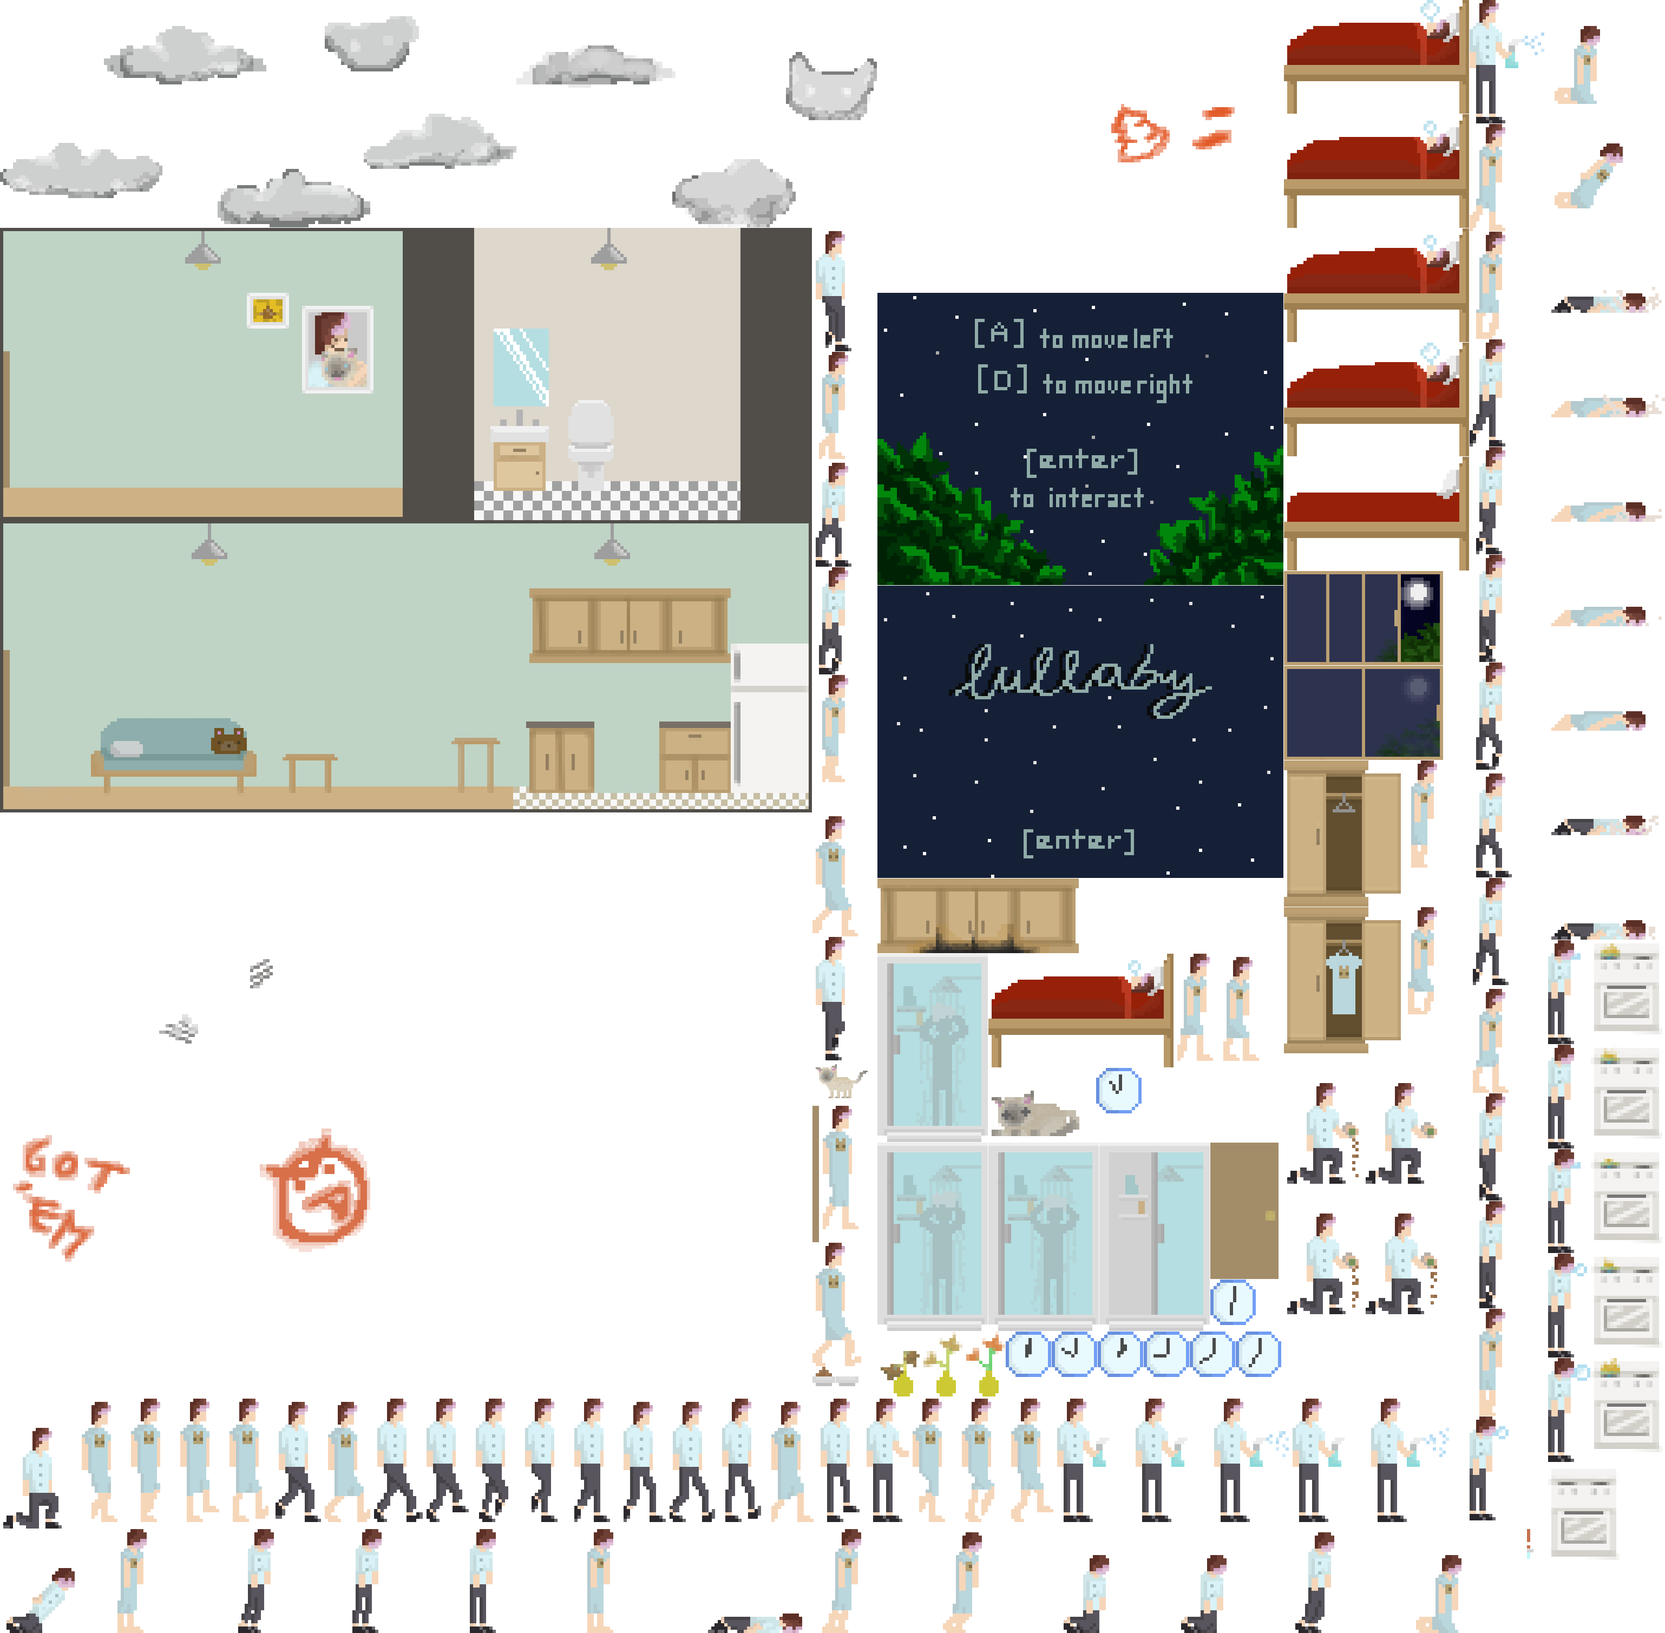
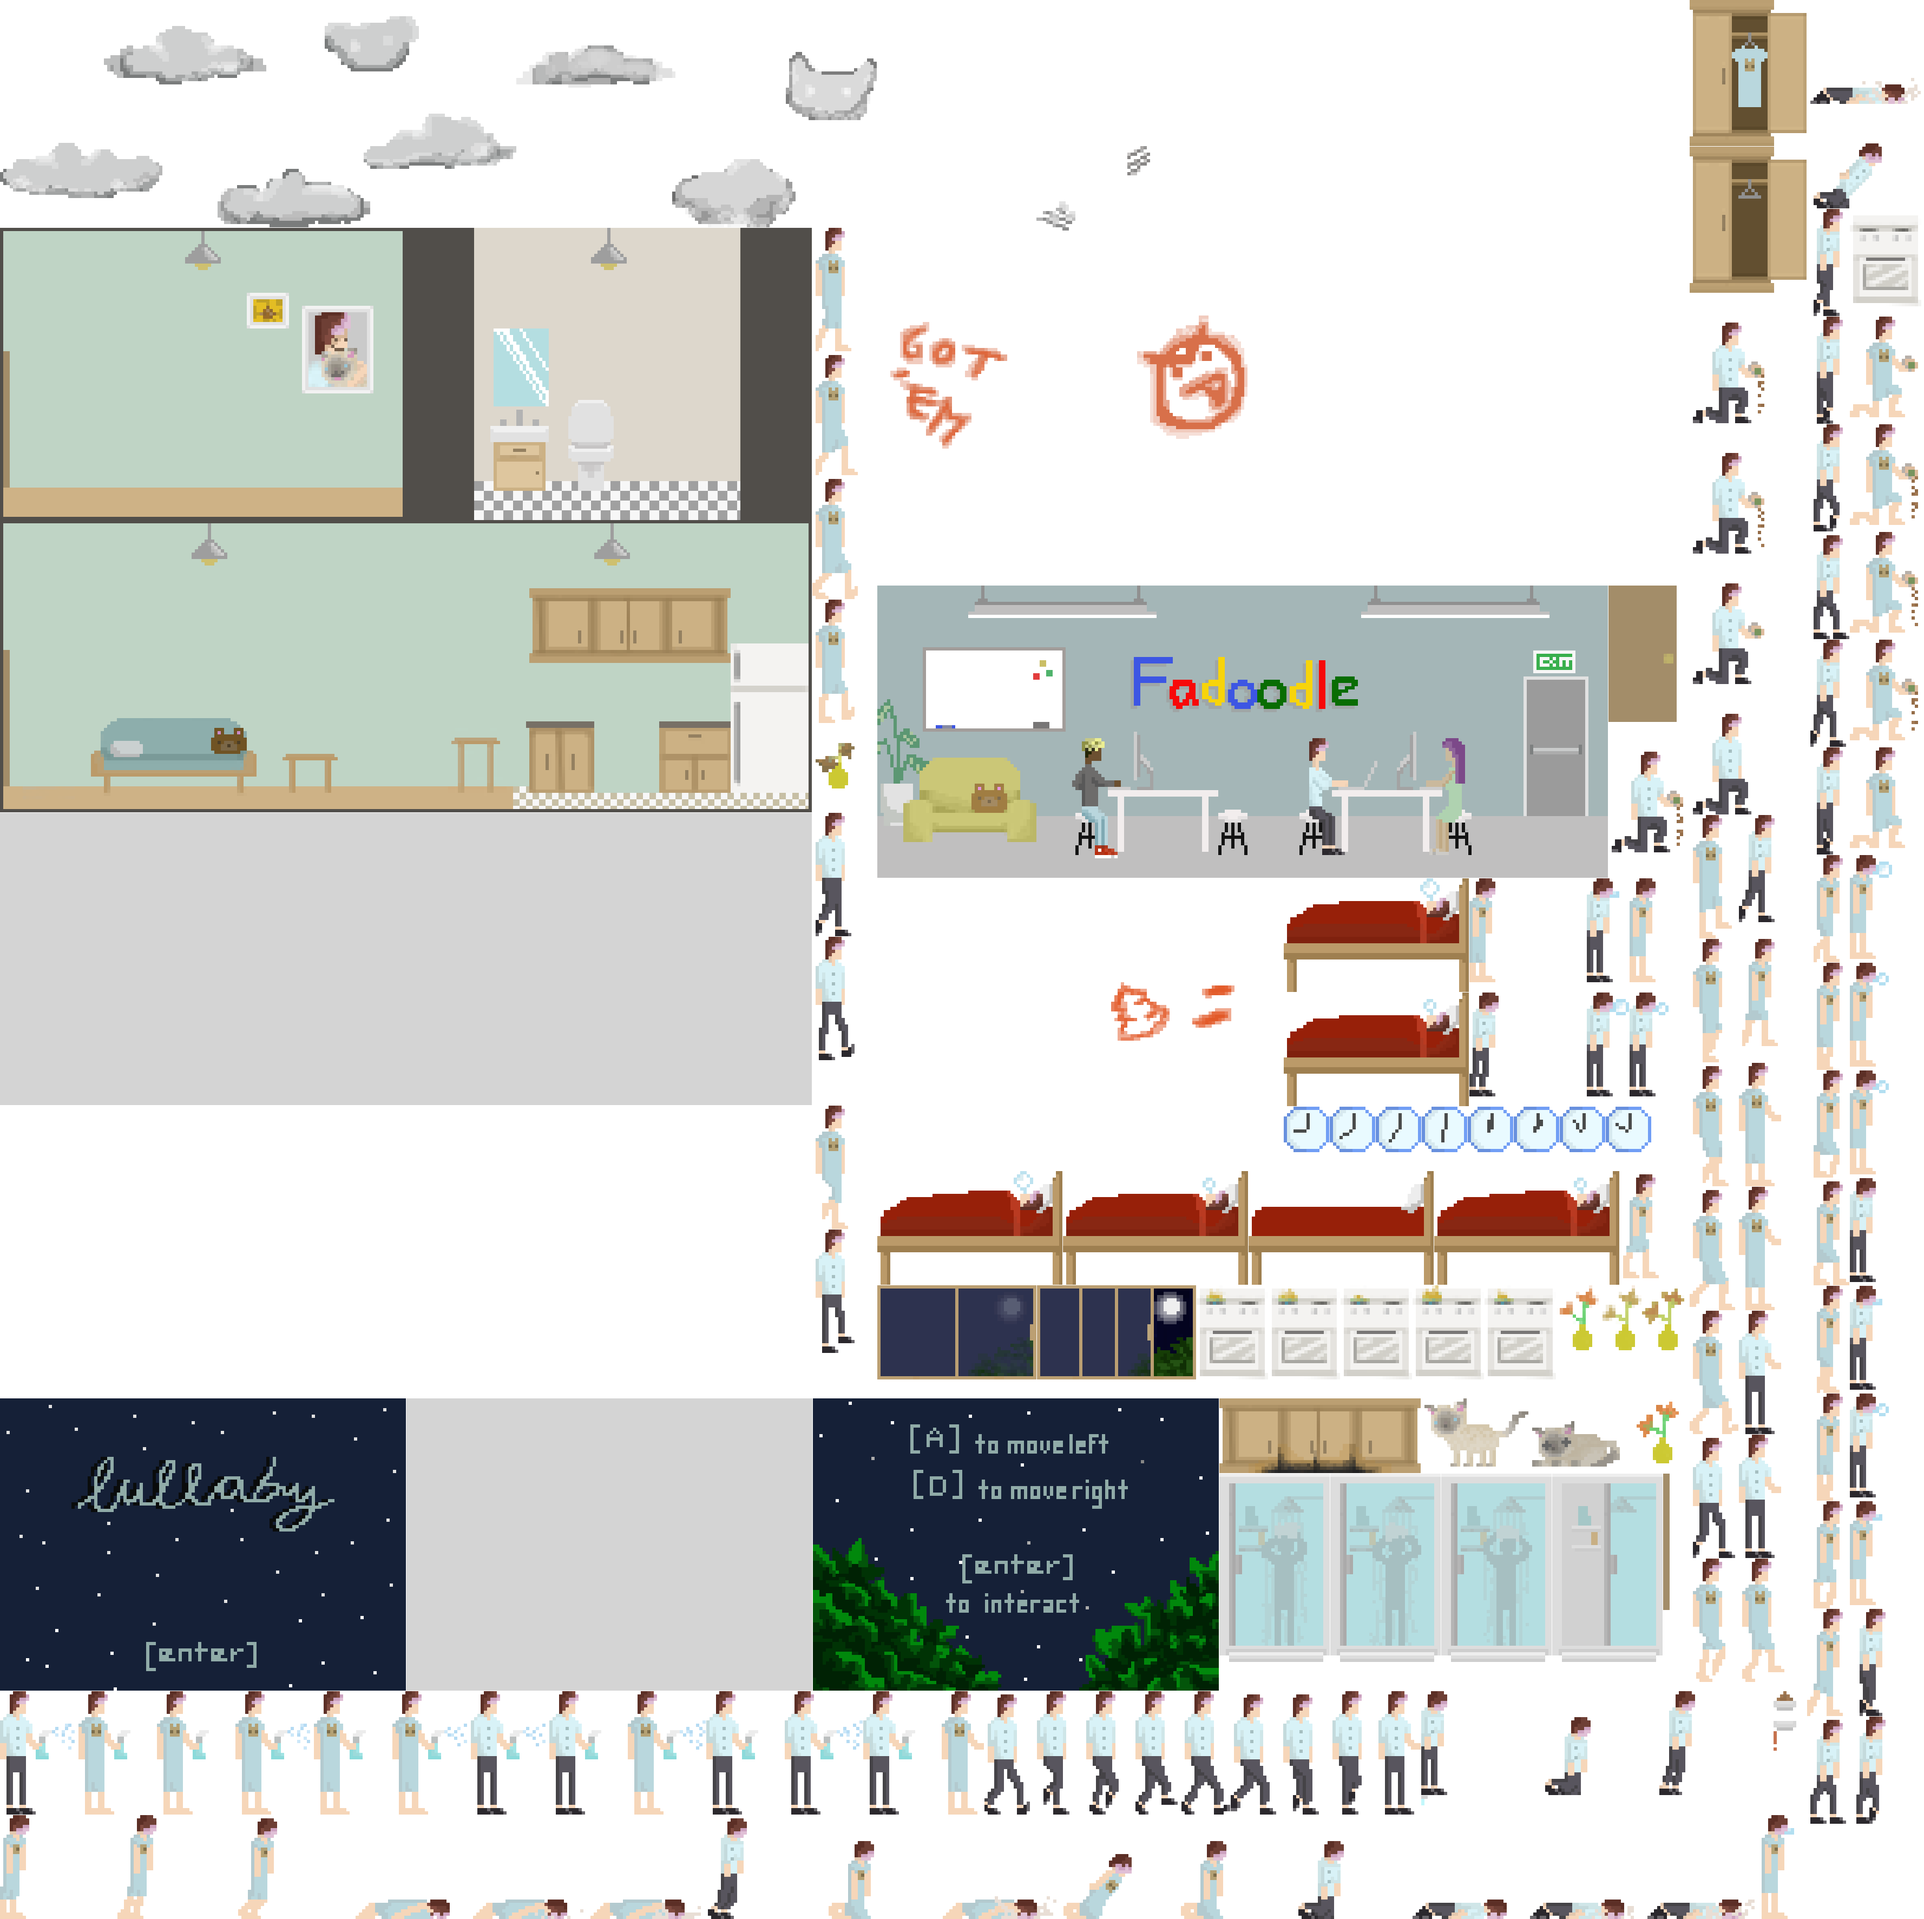
updated atlas and player animations

diff --git a/myGame/js/gamePlay.js b/myGame/js/gamePlay.js
@@ -113,6 +113,9 @@ GamePlay.prototype = {
 	create: function() {
 	 	console.log('GamePlay: create');
 
+	 	// var livingroomFilter = game.add.sprite(0, 540, 'atlas', 'livingroomfilter');
+	 	// var bedroomFilter = game.add.sprite(0, 0, 'atlas', 'bedroomfilter');
+
 	 	// set time delay for audio
 	 	catDelay = 0;
 	 	windDelay = 0;
@@ -140,16 +143,17 @@ GamePlay.prototype = {
 		//  Living Room Objects------------------------------------------------------
 
 		//  Create cat
-		var cat = game.add.sprite(185, game.world.height - 65, 'atlas', 'cat');
+		var cat = game.add.sprite(975, game.world.height - 65, 'atlas', 'catalive');
 		if(catDead == true){
 			cat.frameName = 'catdead';
+			var clawMarks = game.add.sprite(0, 540, 'atlas', 'clawmarks');
 			catHungry = false;
 			cat.x = 200;
-			cat.scale.x = 0.6;
-			cat.scale.y = 0.6;
 		}
 		cat.anchor.x = 0.5;
 		cat.anchor.y = 0.5;
+		cat.scale.x = 0.6;
+		cat.scale.y = 0.6;
 
 		meowSFX.loop = true;
 		console.log('cat hungry? ' + catHungry);
@@ -159,7 +163,7 @@ GamePlay.prototype = {
 
 		//  Create catbowl to interact with
 		//catbowl.frameName = 'catbowl';
-    	catbowl = game.add.sprite(125, game.world.height - 48, 'atlas', 'catbowl');
+    	catbowl = game.add.sprite(897, game.world.height - 48, 'atlas', 'catbowl');
     	game.physics.arcade.enable(catbowl);
     	catbowl.enableBody = true;
     	catbowl.anchor.x = 0.3;
@@ -222,7 +226,7 @@ GamePlay.prototype = {
 
 		if(intruderEntered == true){
 			livingroomGraffiti = game.add.sprite(0,game.world.height - 540, 'atlas', 'graffiti(livingrm)');
-			bedroomGraffiti = game.add.sprite(0, 0, 'atlas', 'bedroomgraffiti');
+			bedroomGraffiti = game.add.sprite(0, 0, 'atlas', 'graffiti(bedroom)');
 
 		}
 
@@ -230,7 +234,7 @@ GamePlay.prototype = {
 		//  Bedroom Objects----------------------------------------------------------------
 
 		//  Create closet to interact with
-		closet = game.add.sprite(340, game.world.height - 717, 'atlas', 'closetfull');
+		closet = game.add.sprite(340, game.world.height - 717, 'atlas', 'closetpj');
 		game.physics.arcade.enable(closet);
 		closet.enableBody = true;
 		closet.anchor.x = 0.5;
@@ -293,11 +297,8 @@ GamePlay.prototype = {
 		//  Main Gameplay Objects--------------------------------------------------------
 
 		//  Create Player Object
-	 	player = new Player(game, 'atlas', 'CWalk1', 37);
+	 	player = new Player(game, 'atlas', 'CWalk1', 51);
 	 	game.add.existing(player);
-	 	player.animations.add('cFeedCat', Phaser.Animation.generateFrameNames('CatFood', 1, 5), 4, true);
-		player.animations.add('cWaterPlant', Phaser.Animation.generateFrameNames('Water', 1, 6), 4, true);
-		player.animations.add('cTakeShower', Phaser.Animation.generateFrameNames('Shower', 1, 3), 4, true);
 	 	
 	 	//  Set camera to follow the player
     	//game.camera.follow(player);
@@ -305,12 +306,12 @@ GamePlay.prototype = {
     	game.camera.y = 540;
     	//game.camera.y = game.world.height - 540;
     	game.camera.follow(player); 
-    	game.camera.deadzone = new Phaser.Rectangle(50, 120, 650, 340);
+    	game.camera.deadzone = new Phaser.Rectangle(100, 120, 550, 340);
 
     	//  Interaction Icon
     	interactionIcon = game.add.sprite(1600, 1100, 'atlas', 'notification');
-    	interactionIcon.anchor.x = 0.5;
-    	interactionIcon.anchor.y = 0.5;
+    	interactionIcon.anchor.x = 0;
+    	interactionIcon.anchor.y = 1;
 
 
     	// if dayCounter > 1, flags affect speed of player
@@ -335,7 +336,7 @@ GamePlay.prototype = {
         if(game.physics.arcade.overlap(player, catbowl) || game.physics.arcade.overlap(player, stove) || game.physics.arcade.overlap(player, plant) ||
         	game.physics.arcade.overlap(player, slidingWindow) || game.physics.arcade.overlap(player, shower) || game.physics.arcade.overlap(player, closet)){
         		interactionIcon.x = player.x;
-        		interactionIcon.y = player.y - 170;
+        		interactionIcon.y = player.y - 190;
         } else {
         	interactionIcon.x = 1700;
         	interactionIcon.y = 1100;
@@ -382,7 +383,7 @@ GamePlay.prototype = {
             	stove.animations.stop('on');
             	gasSFX.stop();
             	stove.frameName = 'stoveoff';
-            	player.frameName = 'Hand';
+            	player.frameName = 'CHand1';
             	stoveOff = true;
             	console.log(stoveOff);
             	// speed *= 1.015;
@@ -393,10 +394,8 @@ GamePlay.prototype = {
         function plantInteraction (player, plant) {
             if(game.input.keyboard.justPressed(Phaser.Keyboard.ENTER) && plantDead == false){
             	plant.frameName = 'plant';
-            	player.animations.play('cWaterPlant');
             	wateringSFX.play();
             	plantWatered = true;
-            	console.log(plantWatered);
             	// speed *= 1.015;
             	// animSpeed *= 1.015;
             }
@@ -414,7 +413,7 @@ GamePlay.prototype = {
 
             if(game.input.keyboard.justPressed(Phaser.Keyboard.ENTER) && windowClosed == false){
             	slidingWindow.frameName = 'windowclosed';
-            	player.frameName = 'Hand';
+            	player.frameName = 'CHand1';
             	windowClosed = true;
             	windSFX.stop();
             	// speed *= 1.015;
@@ -425,7 +424,7 @@ GamePlay.prototype = {
         function doorToBedroom (player, livingroomToBedroom) {
         	if(game.input.keyboard.justPressed(Phaser.Keyboard.ENTER)){
         		player.x = 120,
-        		player.y = game.world.height - 675;
+        		player.y = game.world.height - 563;
         		game.camera.x = 0;
         		game.camera.y = 0;
         		speed *= 1.015;
@@ -460,7 +459,7 @@ GamePlay.prototype = {
         function doorToLivingRoom (player, bedroomToLivingroom) {
         	if(game.input.keyboard.justPressed(Phaser.Keyboard.ENTER)){
         		player.x = 735;
-        		player.y = game.world.height - 135;
+        		player.y = game.world.height - 23;
         		game.camera.x = 400;
         		game.camera.y = game.world.height - 540;
         		speed *= 1.015;
@@ -470,7 +469,7 @@ GamePlay.prototype = {
 
         function doorToBathroom (player, bedroomToBathroom) {
         	player.x = 1000;
-        	player.y = game.world.height - 675;
+        	player.y = game.world.height - 563;
         	game.camera.x = 750;
         	game.camera.y = 0;
         }
@@ -490,7 +489,7 @@ GamePlay.prototype = {
 
         function doorBathToBedroom (player, bathroo) {
         	player.x = 150;
-        	player.y = game.world.height - 675;
+        	player.y = game.world.height - 563;
         	game.camera.x = 0;
         	game.camera.y = 0;
         }
@@ -514,7 +513,7 @@ GamePlay.prototype = {
 	},
 	render: function() {
 		//  Check Hitboxes
-		game.debug.body(player);
+		//game.debug.body(player);
 		//game.debug.body(catbowl);
 		// game.debug.body(slidingWindow);
 		//game.debug.body(plant);

diff --git a/myGame/js/player.js b/myGame/js/player.js
@@ -4,22 +4,32 @@
 var speed;
 var animSpeed;
 function Player(game, key, frame) {
-	Phaser.Sprite.call(this, game, 150, game.world.height - 135, key, frame);
-	this.frame = 37;
+	Phaser.Sprite.call(this, game, 50, game.world.height - 23, key, frame);
+	this.frameName = 'CWalk1';
 	game.physics.arcade.enable(this);
 	speed = 300;
 	animSpeed = 35;
-	this.anchor.x = 0.5;
-	this.anchor.y = 0.5;
+	var doNothing = true;
+	this.anchor.x = 0;
+	this.anchor.y = 1;
 	this.enableBody = true;
-	this.body.setSize(80, 230, 0, 0);
+	this.body.setSize(50, 200, 0, 0);
     this.body.collideWorldBounds = true;
     this.game.load.atlas('atlas', 'assets/img/atlas.png', 'assets/img/atlas.json');
 	this.animations.add('cWalk', Phaser.Animation.generateFrameNames('CWalk', 1, 12), animSpeed, true);
 	this.animations.add('pWalk', Phaser.Animation.generateFrameNames('PWalk', 1, 12), animSpeed, true);
-	this.animations.add('cIdle', Phaser.Animation.generateFrameNames('IdleSleep', 1, 6), 5, true);
+	this.animations.add('cIdle', Phaser.Animation.generateFrameNames('CIdleSleep', 1, 6), 5, true);
+	this.animations.add('pIdle', Phaser.Animation.generateFrameNames('PIdleSleep', 1, 6), 5, true);
+	this.animations.add('cSlouch', Phaser.Animation.generateFrameNames('CSlouch', 1, 12), animSpeed, true);
+	this.animations.add('pSlouch', Phaser.Animation.generateFrameNames('PSlouch', 1, 12), animSpeed, true);
 	this.animations.add('cCollapse', Phaser.Animation.generateFrameNames('CCollapse', 1, 11), 10, true);
 	this.animations.add('pCollapse', Phaser.Animation.generateFrameNames('PCollapse', 1, 11), 10, true);
+	this.animations.add('cWaterPlant', Phaser.Animation.generateFrameNames('CWater', 1, 6), 1, false);
+	this.animations.add('cFeedCat', Phaser.Animation.generateFrameNames('CCatFood', 1, 5), 5, false);
+	this.animations.add('cTakeShower', Phaser.Animation.generateFrameNames('CShower', 1, 3), 5, false);
+	this.animations.add('pWaterPlant', Phaser.Animation.generateFrameNames('PWater', 1, 6), 1, false);
+	this.animations.add('pFeedCat', Phaser.Animation.generateFrameNames('PCatFood', 1, 5), 5, false);
+	this.animations.add('pTakeShower', Phaser.Animation.generateFrameNames('PShower', 1, 3), 5, false);
 }
 
 // Prefab prototype
@@ -28,13 +38,16 @@ Player.prototype.constructor = Player;
 
 // override Update
 Player.prototype.update = function() {
+
 	if(game.input.keyboard.isDown(Phaser.Keyboard.D)) {
+		this.doNothing = false;
 		if (speed < 0) {
 			speed *= -1;
 		}
 
 		this.scale.x = 1;
 		this.body.velocity.x = speed;
+		this.body.setSize(80, 230, 0, 0);
 
 		if(closetUsed == true){
 			this.animations.play('pWalk');
@@ -47,12 +60,14 @@ Player.prototype.update = function() {
 		speed *= 0.99945;
 		//console.log(this.animations.currentAnim.speed);
 	} else if (game.input.keyboard.isDown(Phaser.Keyboard.A)) {
+		this.doNothing = false;
 		if (speed > 0) {
 			speed *= -1;
 		}
 
 		this.scale.x = -1;
 		this.body.velocity.x = speed;
+		this.body.setSize(80, 230, 0, 0);
 		
 		if(closetUsed == true){
 			this.animations.play('pWalk');
@@ -66,8 +81,30 @@ Player.prototype.update = function() {
 		speed *= 0.99945;
 		//console.log(this.animations.currentAnim.speed);
 	} else {
+		this.doNothing = true;
+	}
+
+	//console.log("We are not doing anything before we idle: " + this.doNothing);
+	if(this.doNothing == true){
+		if(closetUsed == true){
+			this.animations.play('pIdle');
+		}else {
+			this.animations.play('cIdle');
+		};
 		this.body.velocity.x = 0;
-		this.animations.play('cIdle');
+		this.body.setSize(50, 200, 0, 0);
 		this.frame = this.frame;
 	}
+
+
+	if (game.physics.arcade.overlap(player, plant)){
+        if(game.input.keyboard.justPressed(Phaser.Keyboard.ENTER) && plantDead == false){
+        	this.doNothing = false;
+        	console.log("We are not doing anything when we press enter: " + this.doNothing);
+        	this.animations.play('cWaterPlant', 2, true);
+        }
+        this.doNothing = true;
+        console.log("We are not doing anything when the animation is over: " + this.doNothing);
+    }
 }
+
